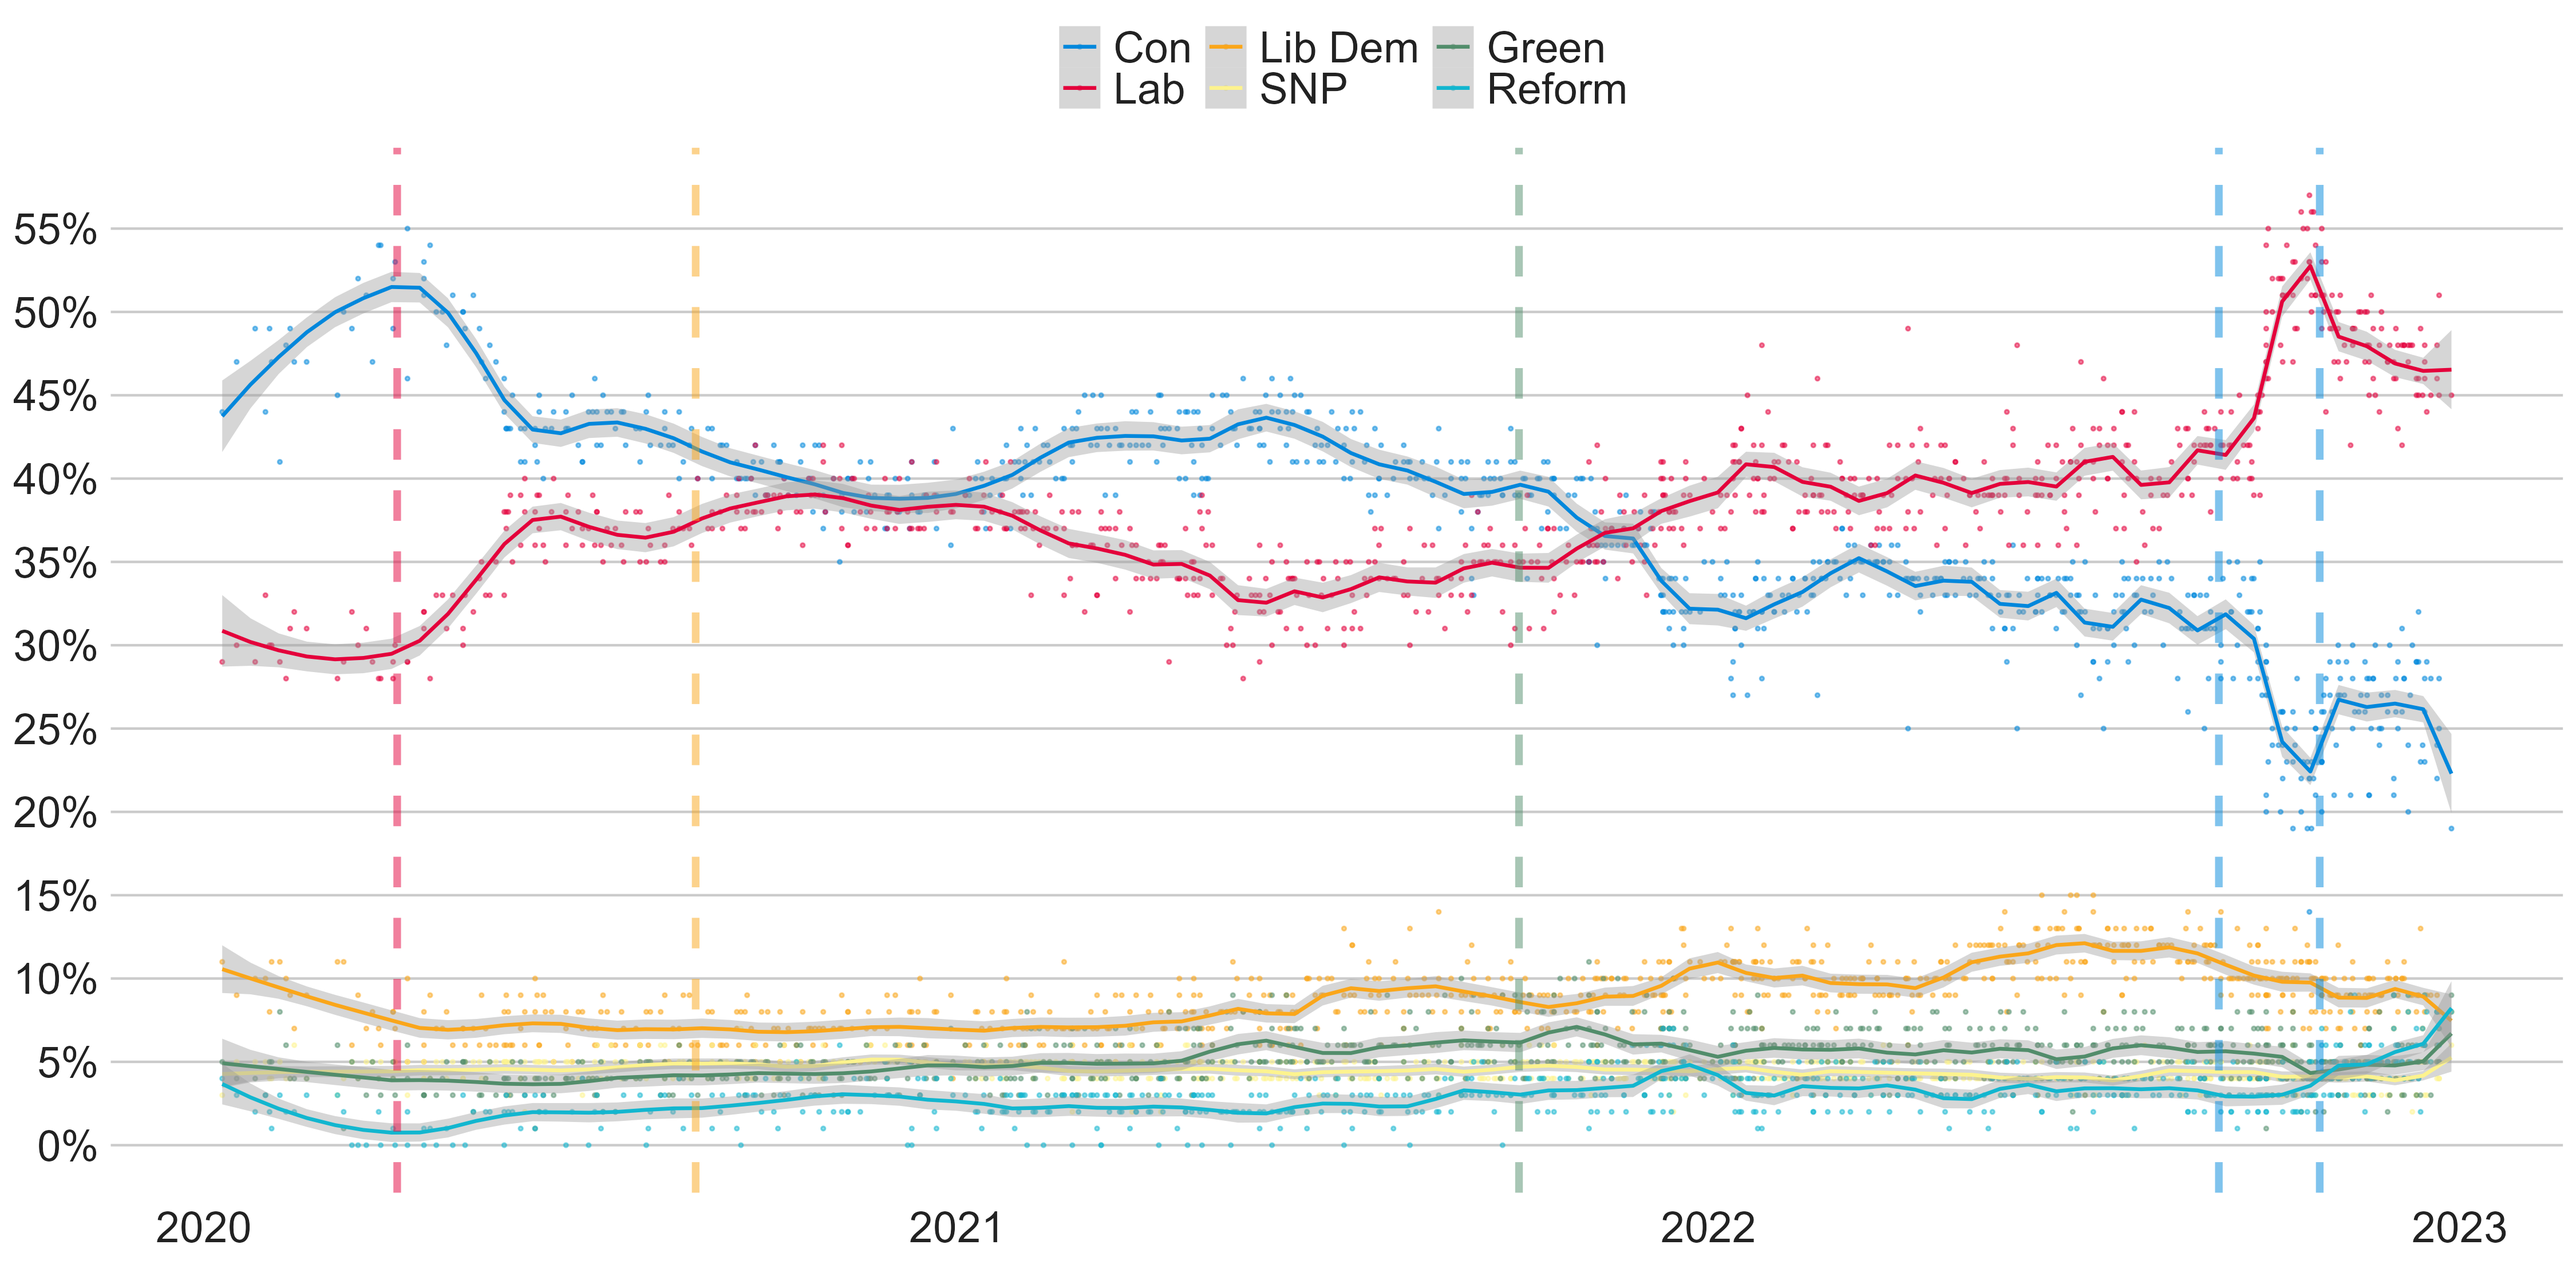
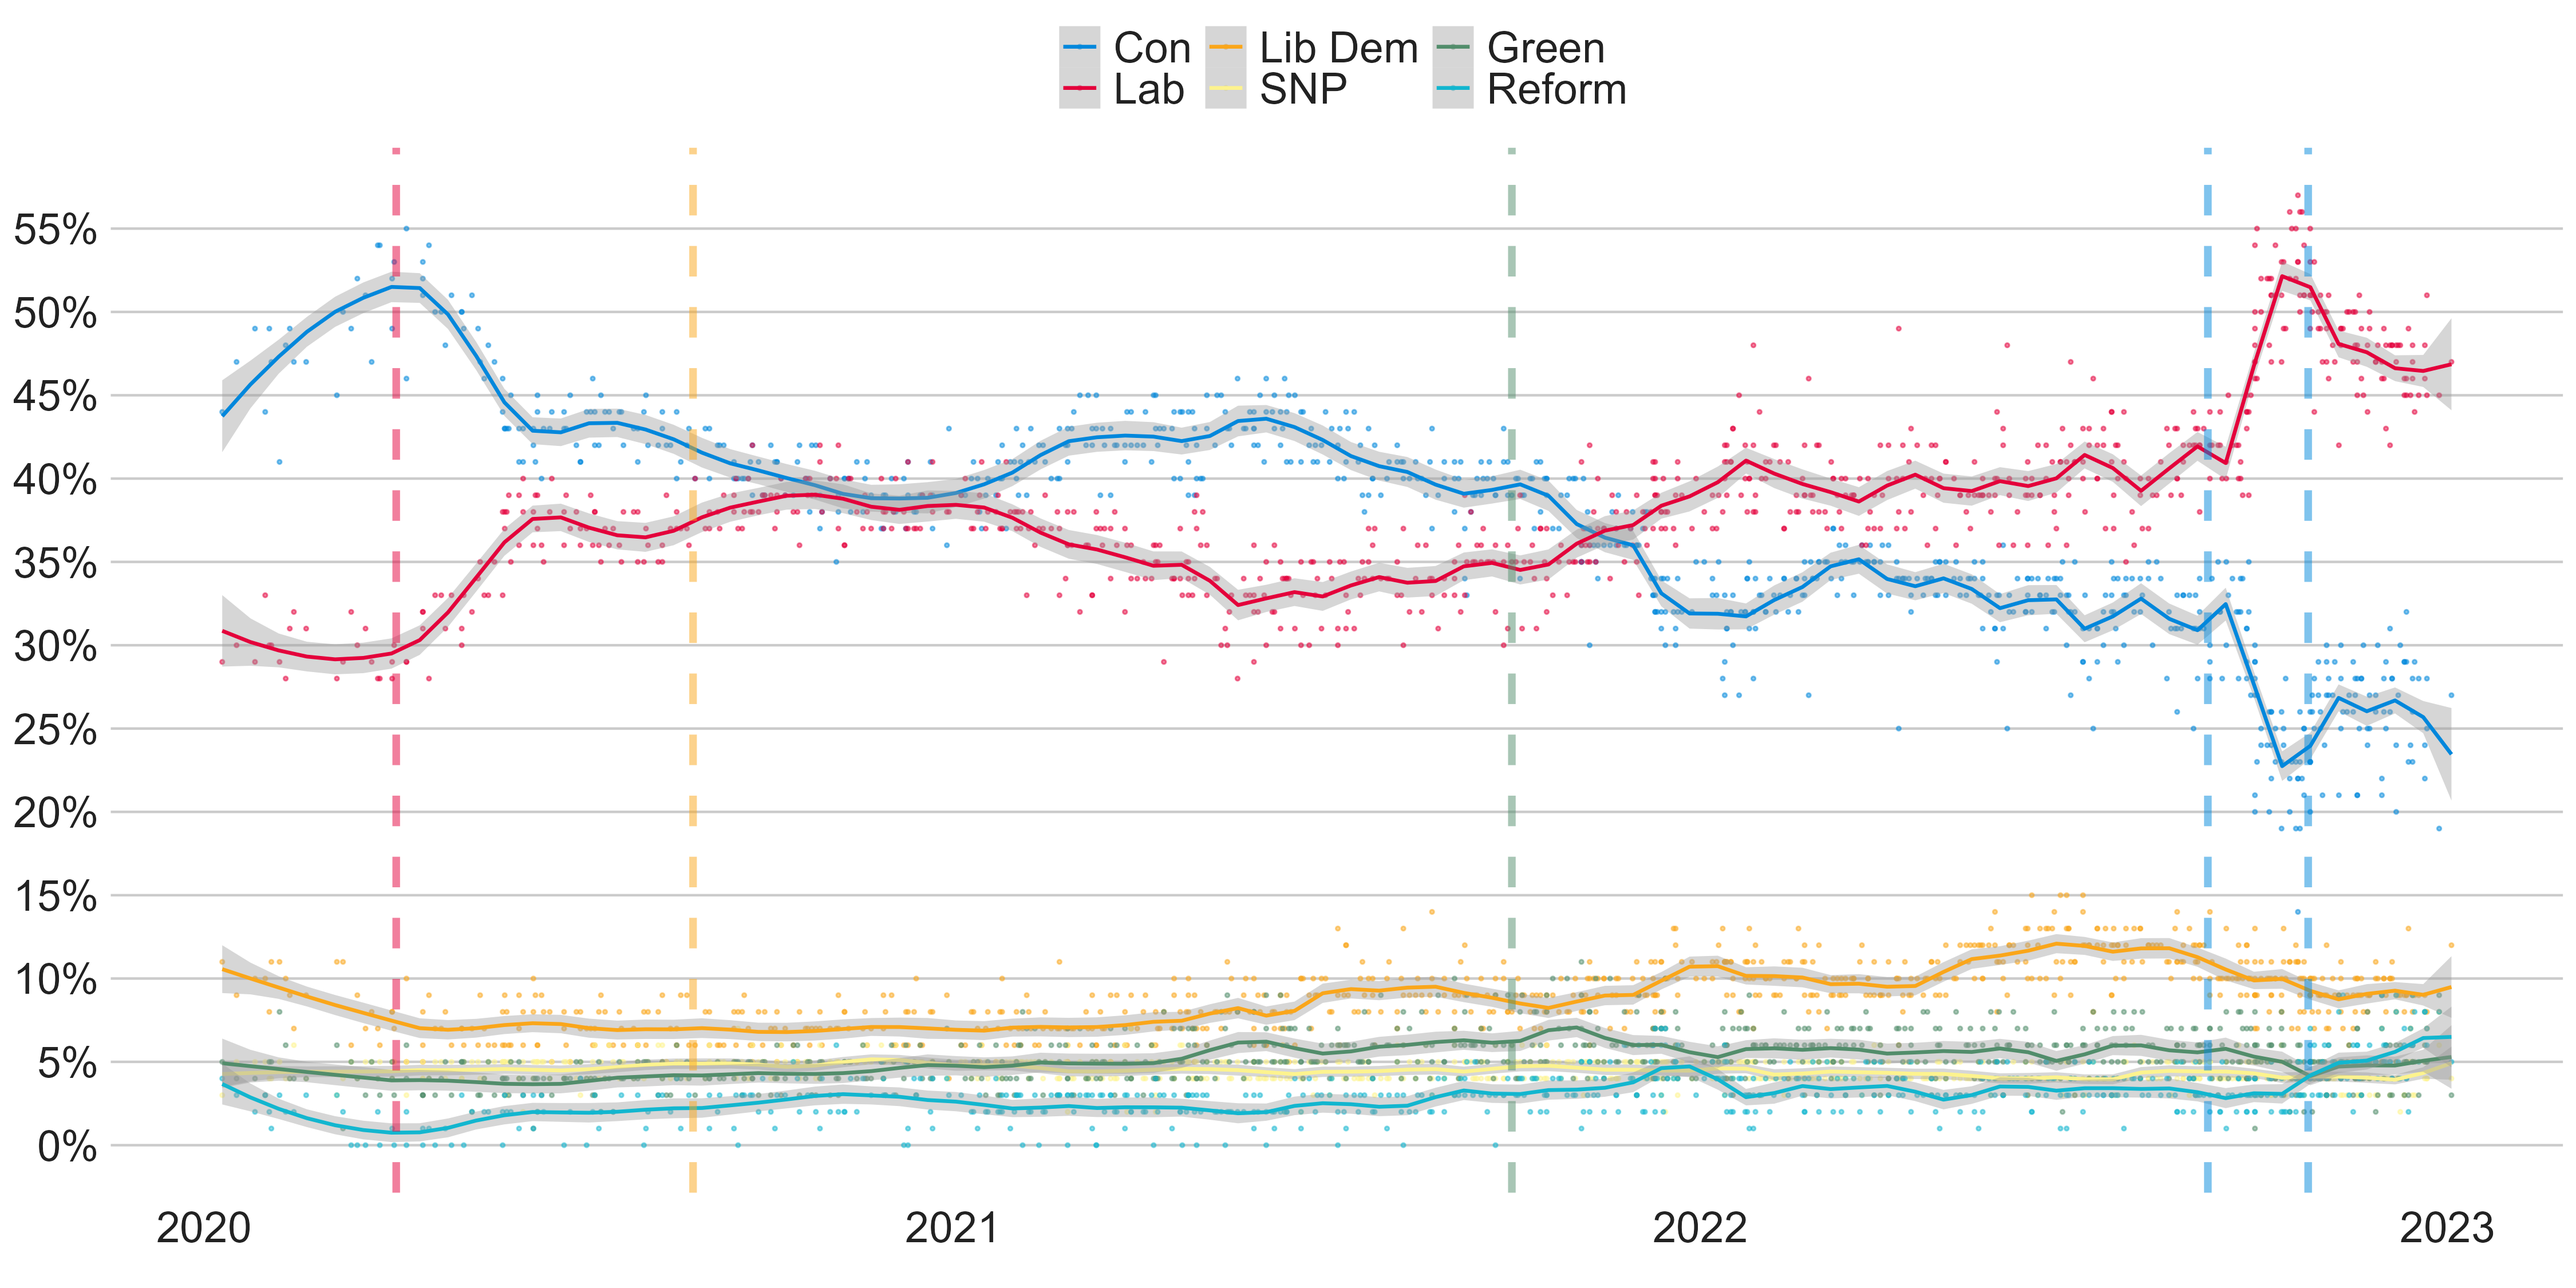
Updated Polls

diff --git a/UK_Elections/general_polling/data.py b/UK_Elections/general_polling/data.py
@@ -10,15 +10,31 @@ soup = BeautifulSoup(response.text, 'html.parser')
 tables = soup.find_all('table',class_="wikitable")
 df=pd.read_html(str(tables))
 print(df[0])
+
+
 df0=pd.DataFrame(df[0])
-data22 = df0.drop(["Pollster", "Client", "Area", "Others", "Lead"], axis=1)
-headers = ['Dates conducted', 'Sample size', 'Con', 'Lab', 'Lib Dem', 'SNP', 'Green', 'Reform']
+data23 = df0.drop(["Pollster", "Client", "Area", "Others", "Lead"], axis=1)
+headers = ['Date', 'Sample size', 'Con', 'Lab', 'Lib Dem', 'SNP', 'Green', 'Reform']
 parties = ['Con', 'Lab', 'Lib Dem', 'SNP', 'Green', 'Reform']
-data22[headers] = data22[headers].apply(lambda x: x.str.replace(',',''))
-data22.columns = data22.columns.droplevel(-1)
-data22['Dates conducted'] = [x.strip()[-6:] for x in data22['Dates conducted']]
-data22['Dates conducted'] = [x.replace('–','') for x in data22['Dates conducted']]
-data22['Dates conducted'] = [x+' 2022' for x in data22['Dates conducted']]
+data23.columns = headers
+data23['Date'] = [x.strip()[-6:] for x in data23['Date']]
+data23['Date'] = [x.replace('–','') for x in data23['Date']]
+data23['Date'] = [x+' 2023' for x in data23['Date']]
+for z in parties:
+    data23[z] = [x.replace('–','-') for x in data23[z]]
+    data23[z] = [x.replace('TBC','-') for x in data23[z]]
+    data23[z] = [x.replace('?','-') for x in data23[z]]
+    data23[z] = [x.replace('[a]','') for x in data23[z]]
+data23 = data23[data23['Sample size'] != data23['Con']]
+print(data23)
+
+
+df1=pd.DataFrame(df[1])
+data22 = df1.drop(["Pollster", "Client", "Area", "Others", "Lead"], axis=1)
+data22.columns = headers
+data22['Date'] = [x.strip()[-6:] for x in data22['Date']]
+data22['Date'] = [x.replace('–','') for x in data22['Date']]
+data22['Date'] = [x+' 2022' for x in data22['Date']]
 for z in parties:
     data22[z] = [x.replace('–','-') for x in data22[z]]
     data22[z] = [x.replace('TBC','-') for x in data22[z]]
@@ -28,13 +44,14 @@ data22 = data22[data22['Sample size'] != data22['Con']]
 print(data22)
 
 
-df1=pd.DataFrame(df[1])
-data21 = df1.drop(["Pollster", "Client", "Area", "Others", "Lead"], axis=1)
-data21[headers] = data21[headers].apply(lambda x: x.str.replace(',',''))
-data21.columns = data21.columns.droplevel(-1)
-data21['Dates conducted'] = [x.strip()[-6:] for x in data21['Dates conducted']]
-data21['Dates conducted'] = [x.replace('–','') for x in data21['Dates conducted']]
-data21['Dates conducted'] = [x+' 2021' for x in data21['Dates conducted']]
+df2=pd.DataFrame(df[2])
+print(df2)
+data21 = df2.drop(["Pollster", "Client", "Area", "Others", "Lead"], axis=1)
+data21.columns = headers
+data21['Date'] = [x.strip()[-6:] for x in data21['Date']]
+data21['Date'] = [x.replace('–','') for x in data21['Date']]
+data21['Date'] = [x+' 2021' for x in data21['Date']]
+
 for z in parties:
     data21[z] = [x.replace('–','-') for x in data21[z]]
     data21[z] = [x.replace('TBC','-') for x in data21[z]]
@@ -43,15 +60,14 @@ for z in parties:
 data21 = data21[data21['Sample size'] != data21['Con']]
 print(data21)
 
-df2=pd.DataFrame(df[2])
-print(df2)
-data20 = df2.drop(["Pollster", "Client", "Area", "Others", "Lead"], axis=1)
-data20 = data20.rename(columns={'Brexit':'Reform'})
-data20[headers] = data20[headers].apply(lambda x: x.str.replace(',',''))
-data20.columns = data20.columns.droplevel(-1)
-data20['Dates conducted'] = [x.strip()[-6:] for x in data20['Dates conducted']]
-data20['Dates conducted'] = [x.replace('–','') for x in data20['Dates conducted']]
-data20['Dates conducted'] = [x+' 2020' for x in data20['Dates conducted']]
+
+df3=pd.DataFrame(df[3])
+print(df3)
+data20 = df3.drop(["Pollster", "Client", "Area", "Others", "Lead"], axis=1)
+data20.columns = headers
+data20['Date'] = [x.strip()[-6:] for x in data20['Date']]
+data20['Date'] = [x.replace('–','') for x in data20['Date']]
+data20['Date'] = [x+' 2020' for x in data20['Date']]
 
 for z in parties:
     data20[z] = [x.replace('–','-') for x in data20[z]]
@@ -61,9 +77,9 @@ for z in parties:
 data20 = data20[data20['Sample size'] != data20['Con']]
 print(data20)
 
-data = pd.concat([data22,data21,data20])
+
+data = pd.concat([data23,data22,data21,data20])
 data = data[:-2]
 data = data.drop(["Sample size"], axis=1)
-data = data.rename(columns={'Dates conducted':'Date'})
 print(data)
 data.to_csv('UK_Elections/general_polling/poll.csv', index=False)
